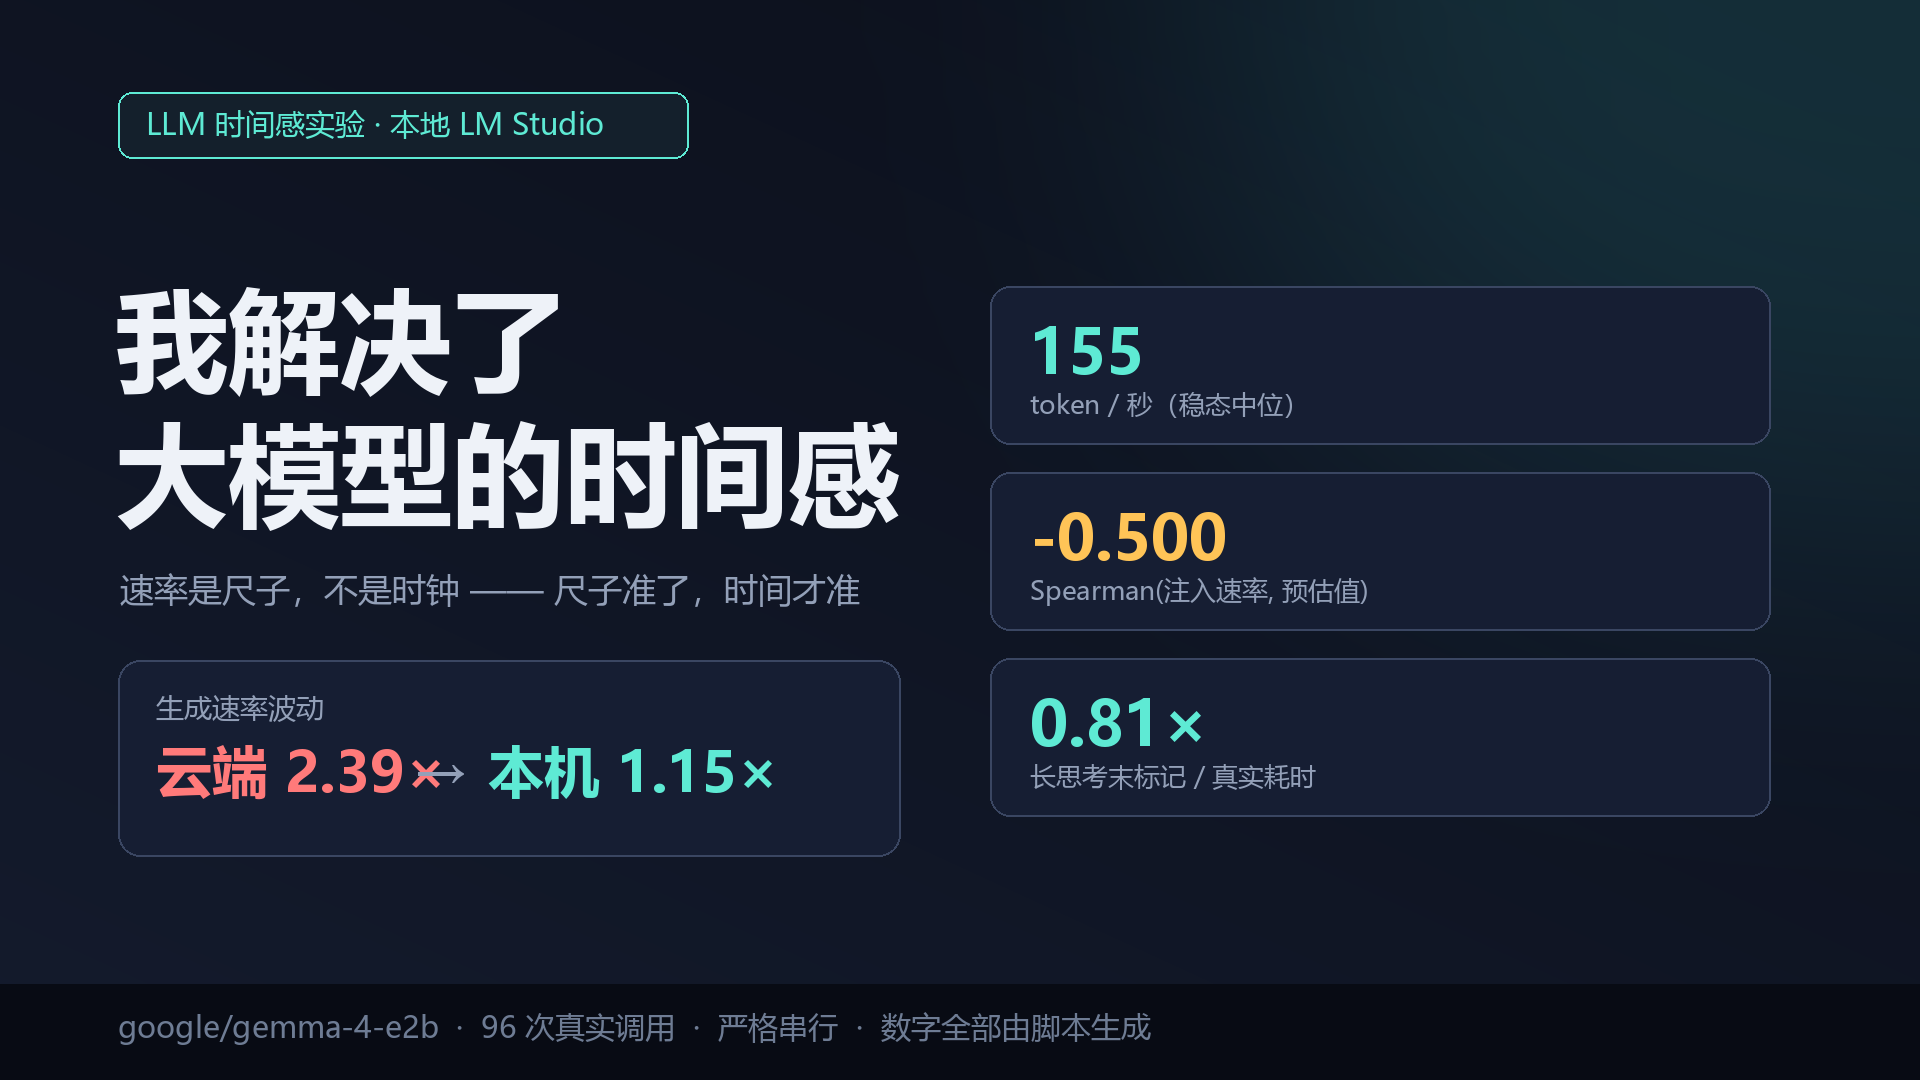
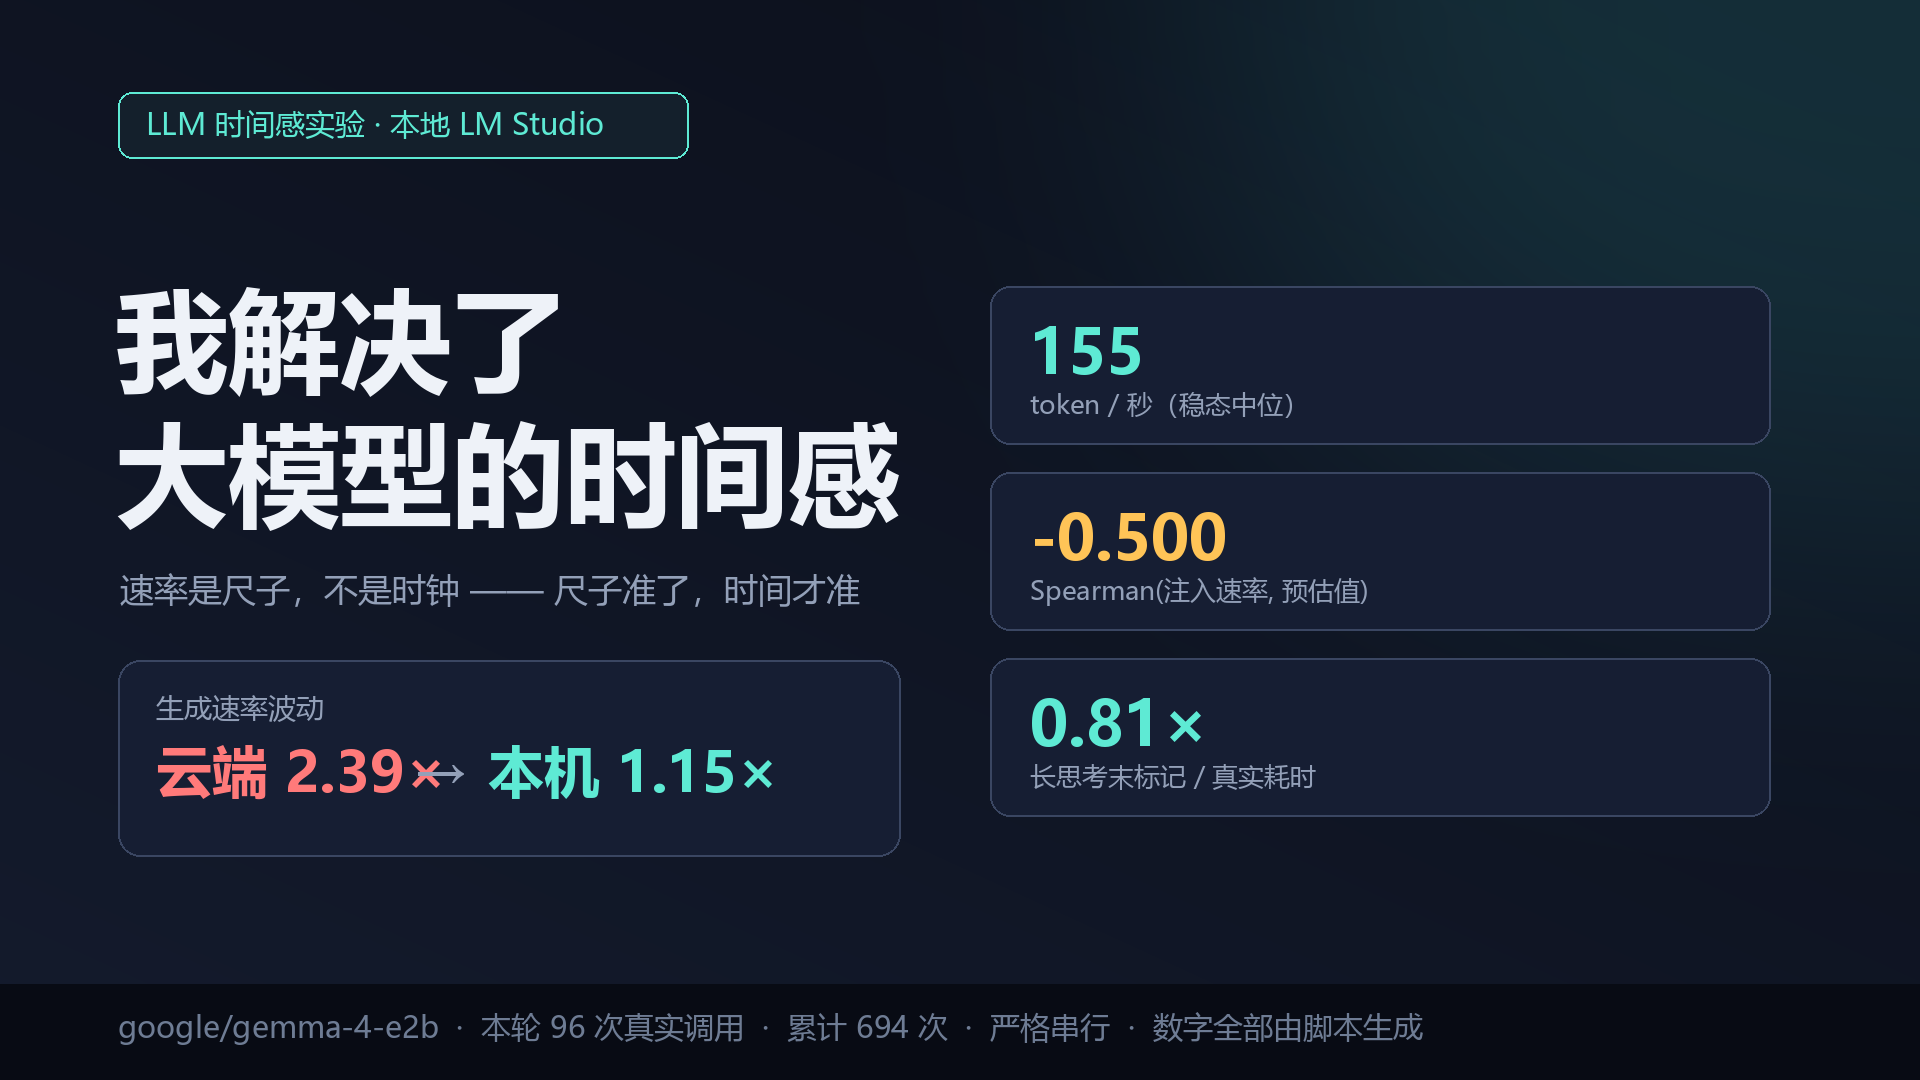
fix: 封面/简介调用数口径统一 + 投稿物料时长改为探测真实文件
1. 调用数口径
   - 封面与简介原本只写本轮 96 次，而旁白说「六百多次」，同一部片里两个口径打架。
   - 改为从 raw/*.jsonl 行数自动统计：本轮 local_* = 96，上一轮云端 = 450 + 48 + 100 = 598，
     累计 694（与幻灯片「450 轮 + 长程 148 次」同口径）。
   - 封面底部条改为「本轮 96 次真实调用 · 累计 694 次」，简介给出拆分。

2. 投稿物料时长写死
   - make_upload_sheet.py 里 dur = 293.9 是手抄的旧值，与成片实际 293.2 秒不符。
   - 改为用 ffprobe 从 final.mp4 探测真实时长（FFPROBE 环境变量优先）。

脱敏扫描 0 命中。

Changed region(s): [[0.25, 0.9167, 0.75, 0.9778]]

diff --git a/local/make_cover.py b/local/make_cover.py
@@ -80,13 +80,22 @@ def main():
     opt_arm = (opt.get("arms") or {}).get("speed_unit") or {}
     last_ratio = opt_arm.get("median_last_ratio", 0.807)
 
-    # 真实调用次数 = 所有 raw/*.jsonl 的行数（不手抄）
-    calls = 0
+    # 真实调用次数 = raw/*.jsonl 的行数（不手抄）
+    # 本轮 = local_*.jsonl；上一轮云端 = 主轮 + 长程 B/B2（与幻灯片「450 轮 + 长程 148 次」同口径）
     rawdir = os.path.join(ROOT, "raw")
-    for fn in os.listdir(rawdir):
-        if fn.startswith("local_") and fn.endswith(".jsonl"):
-            with open(os.path.join(rawdir, fn), encoding="utf-8") as fh:
-                calls += sum(1 for line in fh if line.strip())
+
+    def count_lines(fn):
+        p = os.path.join(rawdir, fn)
+        if not os.path.exists(p):
+            return 0
+        with open(p, encoding="utf-8") as fh:
+            return sum(1 for line in fh if line.strip())
+
+    calls_local = sum(count_lines(fn) for fn in os.listdir(rawdir)
+                      if fn.startswith("local_") and fn.endswith(".jsonl"))
+    calls_cloud = sum(count_lines(fn) for fn in
+                      ("records.jsonl", "phase_b_30s.jsonl", "phase_b2.jsonl"))
+    calls = calls_local + calls_cloud
 
     img = bg()
     d = ImageDraw.Draw(img)
@@ -131,7 +140,7 @@ def main():
     # 底部条
     d.rectangle([0, H - 96, W, H], fill=(8, 11, 20))
     d.text((118, H - 74),
-           f"google/gemma-4-e2b  ·  {calls} 次真实调用  ·  严格串行  ·  数字全部由脚本生成",
+           f"google/gemma-4-e2b  ·  本轮 {calls_local} 次真实调用  ·  累计 {calls} 次  ·  严格串行  ·  数字全部由脚本生成",
            font=font(FR, 30), fill=(110, 124, 148))
 
     dst = os.path.join(VDIR, "cover.png")
@@ -144,10 +153,13 @@ def main():
         "cover": dst,
         "video": os.path.join(VDIR, "final.mp4"),
         "calls": calls,
+        "calls_local": calls_local,
+        "calls_cloud": calls_cloud,
         "description": (
             "大模型不知道自己有多快。\n"
             "\n"
-            f"我花了 {calls} 次真实调用去验证一件事：只要告诉它上一轮每秒能生成多少 token，"
+            f"我花了 {calls} 次真实调用去验证一件事（上一轮云端 {calls_cloud} 次，"
+            f"这一轮本机 {calls_local} 次）：只要告诉它上一轮每秒能生成多少 token，"
             "它能不能因此知道，自己这条回复要写多久。\n"
             "\n"
             "【为什么上一轮说「注入速度没用」】\n"

diff --git a/local/make_upload_sheet.py b/local/make_upload_sheet.py
@@ -4,6 +4,8 @@ from __future__ import annotations
 
 import json
 import os
+import shutil
+import subprocess
 import sys
 
 sys.stdout.reconfigure(encoding="utf-8")
@@ -17,8 +19,25 @@ video = os.path.join(VDIR, "final.mp4")
 cover = os.path.join(VDIR, "cover.png")
 dst = os.path.join(VDIR, "投稿物料.md")
 
+FFPROBE = os.environ.get("FFPROBE") or shutil.which("ffprobe") or "ffprobe"
+
+
+def probe_duration(path):
+    """从成片里探测真实时长（不手抄）。"""
+    if not os.path.exists(path):
+        return 0.0
+    p = subprocess.run(
+        [FFPROBE, "-v", "error", "-show_entries", "format=duration",
+         "-of", "default=nw=1:nk=1", path],
+        capture_output=True, text=True, encoding="utf-8", errors="replace")
+    try:
+        return float(p.stdout.strip())
+    except ValueError:
+        return 0.0
+
+
 size_mb = os.path.getsize(video) / 1e6 if os.path.exists(video) else 0
-dur = 293.9
+dur = probe_duration(video)
 
 lines = [
     "# B 站投稿物料",
